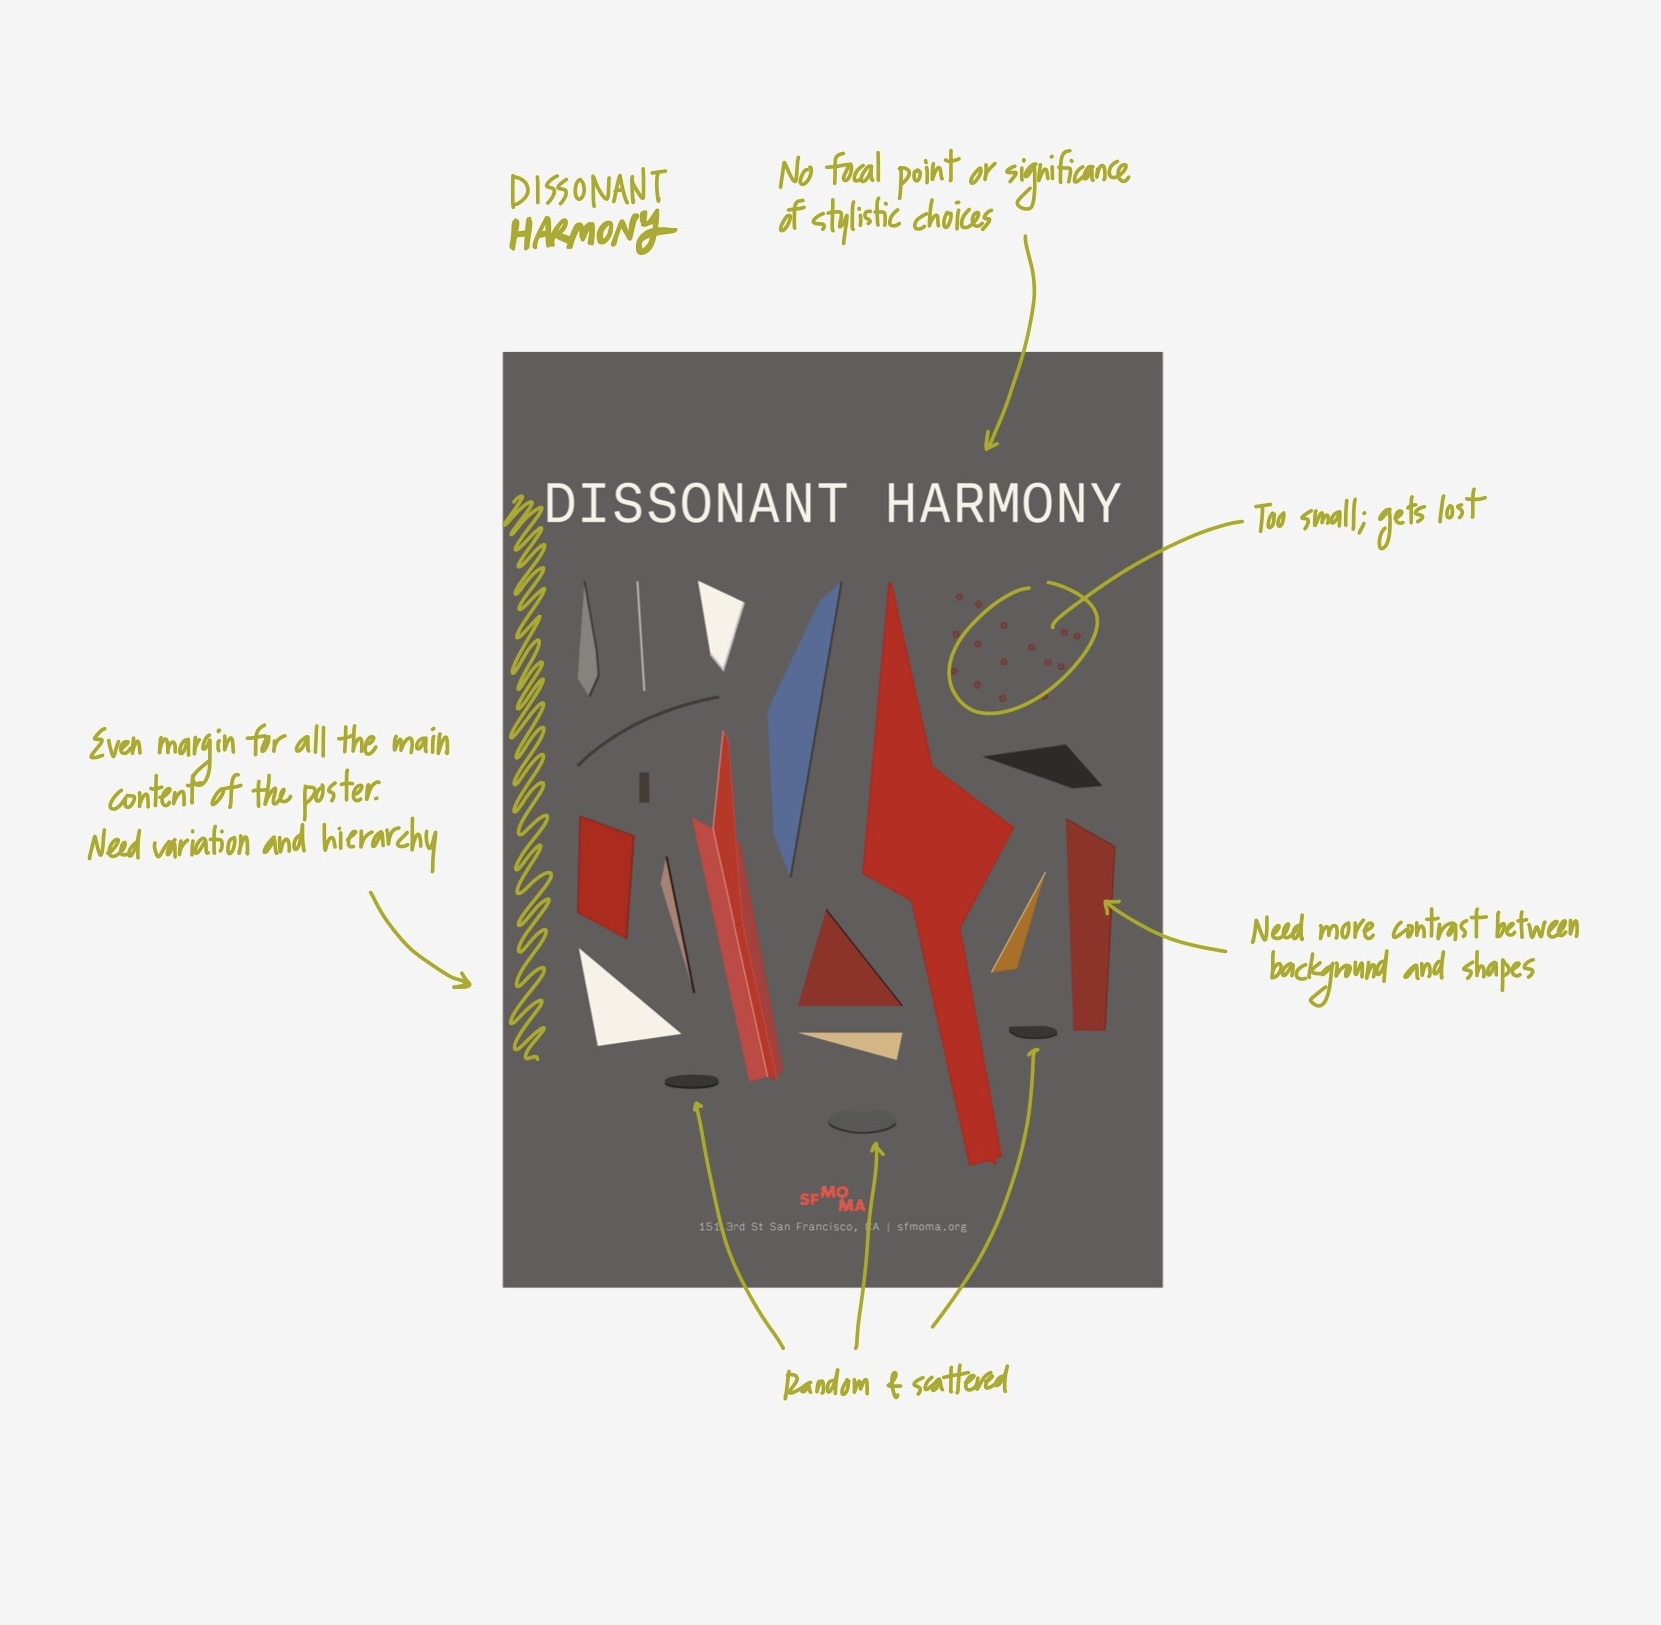
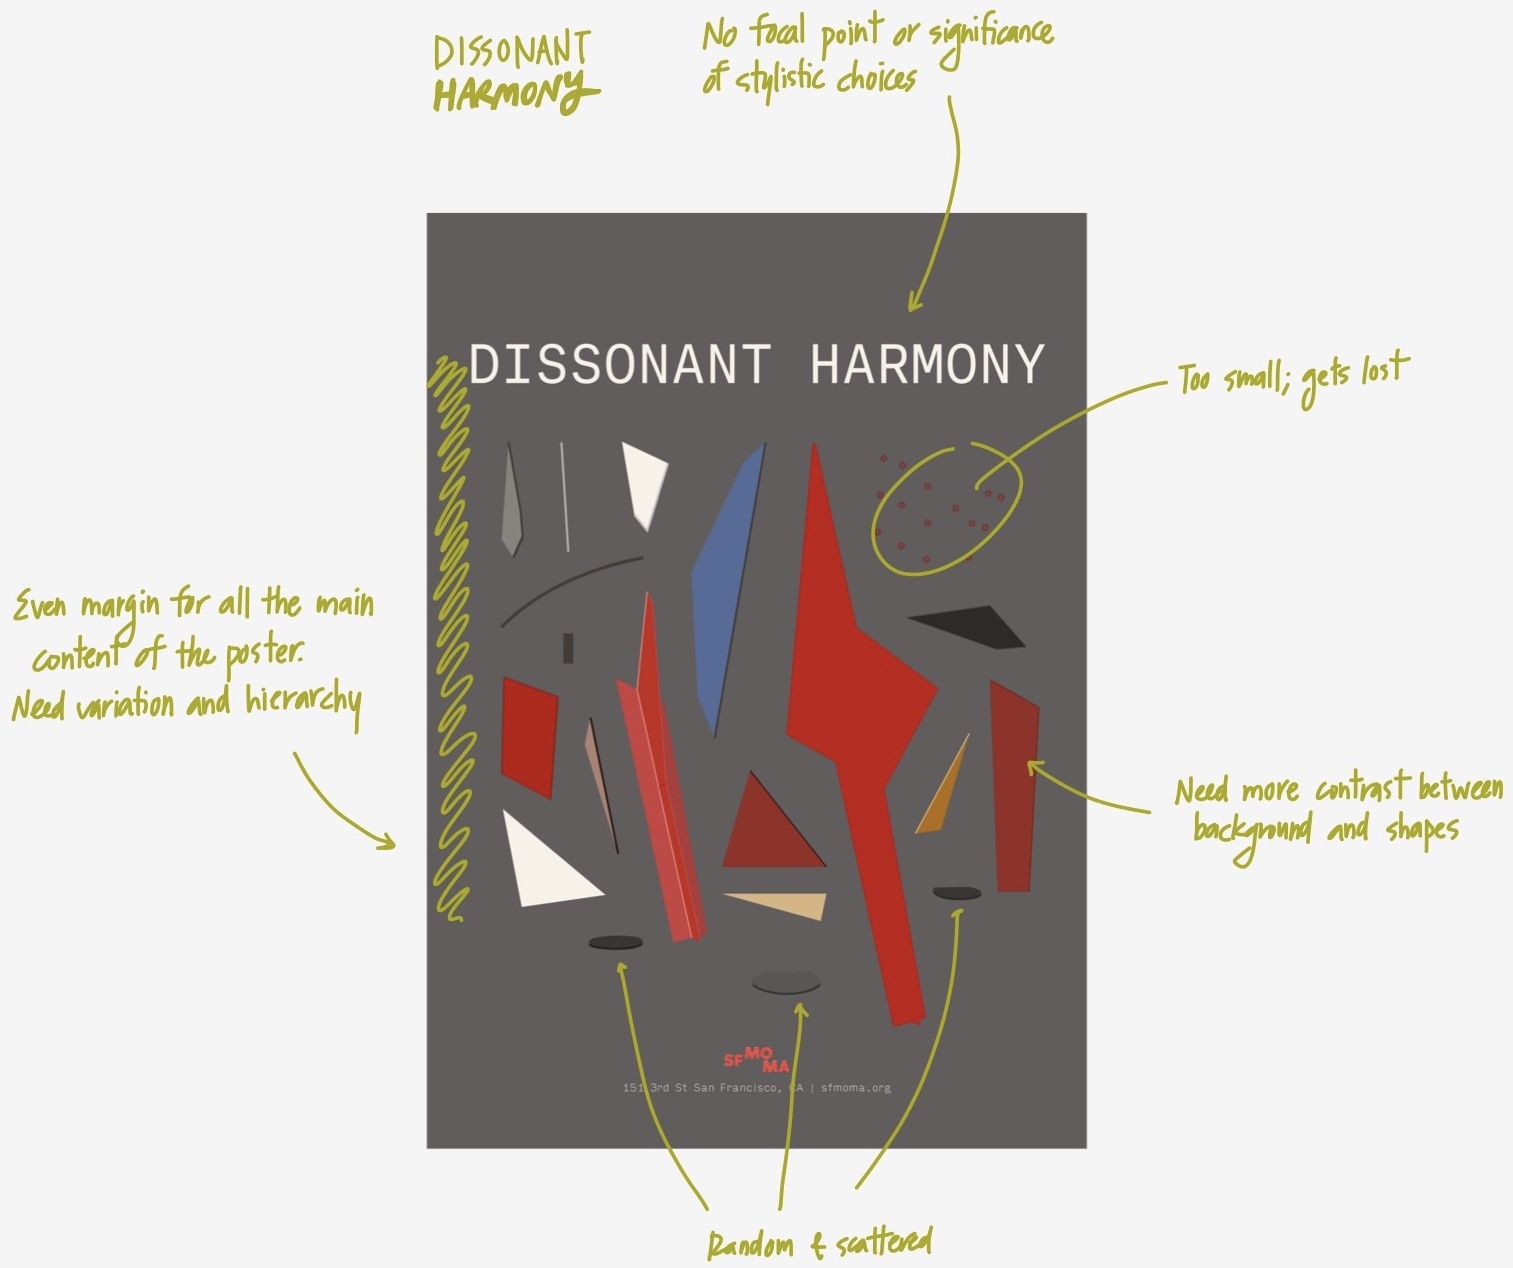
fix calder image padding

Changed region(s): [[0.0, 0.0, 0.9941, 1.0]]

diff --git a/src/projects/dissonant-harmony.tsx b/src/projects/dissonant-harmony.tsx
@@ -77,7 +77,7 @@ export default function DissonantHarmony() {
                         description="Ensuring there is a focal point for the poster"
                         optional="It was important that there was a main focal point for the poster, especially because the poster was a big A1 size. I needed to establish a clear direction that viewers' eyes could follow when looking at the poster. That meant not only setting big-enough margins, but also making sure the individual pieces of the sculpture were framed well and that the other elements supported the main focus (the sculpture)." />
                     <div className="flex flex-col w-full">
-                        <div className="rounded-[0.5rem] img-bg w-full flex align-center justify-center py-[1rem] w-full">
+                        <div className="rounded-[0.5rem] img-bg w-full flex align-center justify-center py-[3rem] w-full">
                             <img src="images/work/calder-a1-markup.jpg" alt="" className="w-[46rem]" />
                         </div>
                         <p className="caption cap-top">a pervious a1 poster version</p>
